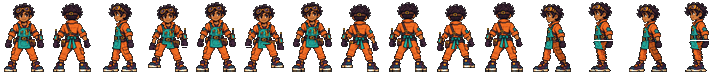
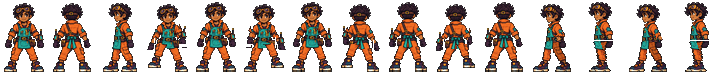
Clearer arm swing in the walk cycle
- Front/back: the forward arm lifts ~4 px with the hand tucked in, the back
  arm drops and swings out, alternating each step
- Side: the near forearm rotates about the elbow (hand ~4 px forward, then
  back), opposite the legs; the spot it leaves is filled with torso texture.
  Forearms are marked per character in build-characters.py (SIDE_FOREARM)

diff --git a/scripts/walk_cycle.py b/scripts/walk_cycle.py
@@ -83,20 +83,43 @@ def _front_back(view, back=False):
     body = opaque & ~legs & ~left_arm & ~right_arm
 
     lift = max(3, round(height * 0.065))  # how high the stepping foot comes up
-    swing = max(1, round(height * 0.03))  # how far an arm swings
+    swing = max(3, round(height * 0.06))  # how far the forward arm comes up
+
+    def arm(dst, mask, side, forward, dip):
+        """
+        One arm, swung: forward lifts it (hand tucked in toward the body, as if coming at
+        the camera); back drops it and lets the hand swing out. `side` is -1 for the arm
+        on the left of the image, +1 for the right.
+        """
+        rows = np.nonzero(mask.any(axis=1))[0]
+        if not len(rows):
+            return
+        r0, r1 = rows[0], rows[-1]
+        for y in range(r0, r1 + 1):
+            t = (y - r0) / max(1, r1 - r0)  # 0 at the shoulder, 1 at the hand
+            if forward:
+                dy, dx = -swing + dip, -side * round(2 * t)
+            else:
+                dy, dx = round(swing * 0.6) + dip, side * round(1.5 * t)
+            for x in np.nonzero(mask[y])[0]:
+                ny, nx = y + dy, x + dx
+                if 0 <= ny < h and 0 <= nx < w:
+                    dst[ny, nx] = a[y, x]
 
     def pose(step_left, dip):
         out = np.zeros_like(a)
         # Planted leg first, then the body and arms, then the stepping leg (it reads as "in front").
         planted, stepping = (right_leg, left_leg) if step_left else (left_leg, right_leg)
         _paste(out, a, 0, 0, planted)
-        # From behind, the arm on the stepping side swings back (down); from the front, forward (up).
-        fwd_arm, back_arm = (right_arm, left_arm) if step_left else (left_arm, right_arm)
         _paste(out, a, 0, dip, body)
-        _paste(out, a, 0, dip - swing if not back else dip + swing, fwd_arm)
-        _paste(out, a, 0, dip + swing if not back else dip - swing, back_arm)
-        _paste(out, a, 0, -lift, stepping, shade=1.0)
-        # Close any gap between the body and a lifted leg by repeating the hip row.
+        # The arm opposite the stepping leg swings forward. Seen from behind, "forward" is
+        # away from the camera, so it drops instead of lifting.
+        left_fwd = not step_left
+        if back:
+            left_fwd = not left_fwd
+        arm(out, left_arm, -1, left_fwd, dip)
+        arm(out, right_arm, +1, not left_fwd, dip)
+        _paste(out, a, 0, -lift, stepping)
         return out
 
     passing = np.zeros_like(a)
@@ -105,7 +128,53 @@ def _front_back(view, back=False):
     return [_img(pose(True, 1)), _img(passing), _img(pose(False, 1)), _img(passing)]
 
 
-def _side(view):
+def _swing_forearm(out, a, box, amount, body_cx):
+    """
+    Swings the forearm in `box` (x0, y0, x1, y1, end exclusive; y0 is the elbow) as a rigid
+    piece rotating about the elbow, so the hand moves `amount` px sideways (negative is
+    forward when facing left). Where the arm was, a block of torso texture from beside it
+    is copied in, so nothing smears.
+    """
+    x0, y0, x1, y1 = box
+    h, w = a.shape[:2]
+    src = out.copy()
+    region = np.zeros((h, w), bool)
+    region[y0:y1, x0:x1] = src[y0:y1, x0:x1, 3] > 0
+    if not region.any():
+        return
+    # Pivot: the middle of the arm's top row (the elbow).
+    top_cols = np.nonzero(region[y0])[0]
+    px = (top_cols[0] + top_cols[-1]) / 2 if len(top_cols) else (x0 + x1) / 2
+    py = y0
+    length = max(1, y1 - 1 - y0)
+    theta = -np.arcsin(max(-0.9, min(0.9, amount / length)))
+    c, s_ = np.cos(theta), np.sin(theta)
+
+    # 1. Fill the arm's spot with torso texture: the same shape, copied from one arm-width
+    #    toward the body (falling back to the other side).
+    bw = x1 - x0
+    toward = 1 if body_cx >= (x0 + x1) / 2 else -1
+    for y, x in zip(*np.nonzero(region)):
+        for k in (toward, -toward, 2 * toward):
+            fx = x + k * bw
+            if 0 <= fx < w and src[y, fx, 3] > 0 and not region[y, fx]:
+                out[y, x] = src[y, fx]
+                break
+        else:
+            out[y, x] = 0
+
+    # 2. Draw the arm rotated about the elbow (inverse mapping, nearest pixel: crisp edges).
+    pad = abs(amount) + 2
+    for ty in range(max(0, y0 - 2), min(h, y1 + 2)):
+        for tx in range(max(0, x0 - pad), min(w, x1 + pad)):
+            rx, ry = tx - px, ty - py
+            sx = round(px + rx * c + ry * s_)
+            sy = round(py - rx * s_ + ry * c)
+            if 0 <= sx < w and 0 <= sy < h and region[sy, sx]:
+                out[ty, tx] = src[sy, sx]
+
+
+def _side(view, forearm=None):
     """
     Side view facing left. The profile art already stands mid-stride, so the walk opens and
     closes that stride: legs a little wider on the steps, drawn together on the passing
@@ -148,19 +217,30 @@ def _side(view):
                             px[:3] *= 0.8
                         dst[y, nx] = px.astype(np.uint8)
 
-    def pose(amount, dip):
+    def pose(amount, dip, arm=0):
         out = np.zeros_like(a)
         legs_moved(out, amount)
         _paste(out, a, 0, dip, body)
+        if forearm and arm:
+            x0, y0, x1, y1 = forearm
+            _swing_forearm(out, out.copy(), (x0, y0 + dip, x1, y1 + dip), arm, cx)
         return out
 
-    step = pose(max(1, round(half * 0.15)), 1)
+    reach = max(3, round(height * 0.06))
+    stride = max(1, round(half * 0.15))
+    # On the two steps the hand swings forward, then back, against the legs.
+    step_a = pose(stride, 1, -reach)
+    step_b = pose(stride, 1, reach)
     passing = pose(-round(half * 0.7), -1)
-    return [_img(step), _img(passing), _img(step), _img(passing)]
+    return [_img(step_a), _img(passing), _img(step_b), _img(passing)]
 
 
-def walk_frames(view, kind):
-    """Four walk frames for a view: kind is 'front', 'back' or 'side' (facing left)."""
+def walk_frames(view, kind, forearm=None):
+    """
+    Four walk frames for a view: kind is 'front', 'back' or 'side' (facing left). For the
+    side view, `forearm` is the near forearm's box in the frame (x0, y0, x1, y1; y0 at the
+    elbow): it can't be told apart from the torso automatically, so it's marked per character.
+    """
     if kind == 'side':
-        return _side(view)
+        return _side(view, forearm)
     return _front_back(view, back=(kind == 'back'))

diff --git a/scripts/build-characters.py b/scripts/build-characters.py
@@ -26,6 +26,16 @@ FRAME_W, FRAME_H = 48, 72
 PANELS_X = [(20, 452), (456, 866), (870, 1291)]
 INSET = 10
 PORTRAIT = 160
+# The near forearm in each character's side frame (frame pixels: x0, y0, x1, y1, end
+# exclusive; y0 at the elbow). The arm overlaps the torso in profile, so it's marked by hand
+# for the walk cycle's arm swing (see walk_cycle.py). Re-check these if a concept changes.
+SIDE_FOREARM = {
+    'maya': (27, 37, 31, 49),
+    'dev': (30, 31, 35, 41),
+    'zoya': (20, 35, 27, 45),
+    'rex': (29, 32, 35, 45),
+    'iris': (30, 31, 36, 45),
+}
 # The sheets' cream background; enclosed pockets of it (between legs, under arms) are cleared too.
 PAPER = (254, 244, 228)
 
@@ -101,7 +111,7 @@ def build(char_id):
     stand = [frame(front), frame(back), frame(side)]
     frames = list(stand)
     for view, kind in zip(stand, ('front', 'back', 'side')):
-        frames += walk_frames(view, kind)
+        frames += walk_frames(view, kind, SIDE_FOREARM.get(char_id) if kind == 'side' else None)
     out = Image.new('RGBA', (FRAME_W * len(frames), FRAME_H), (0, 0, 0, 0))
     for i, f in enumerate(frames):
         out.alpha_composite(f, (i * FRAME_W, 0))
